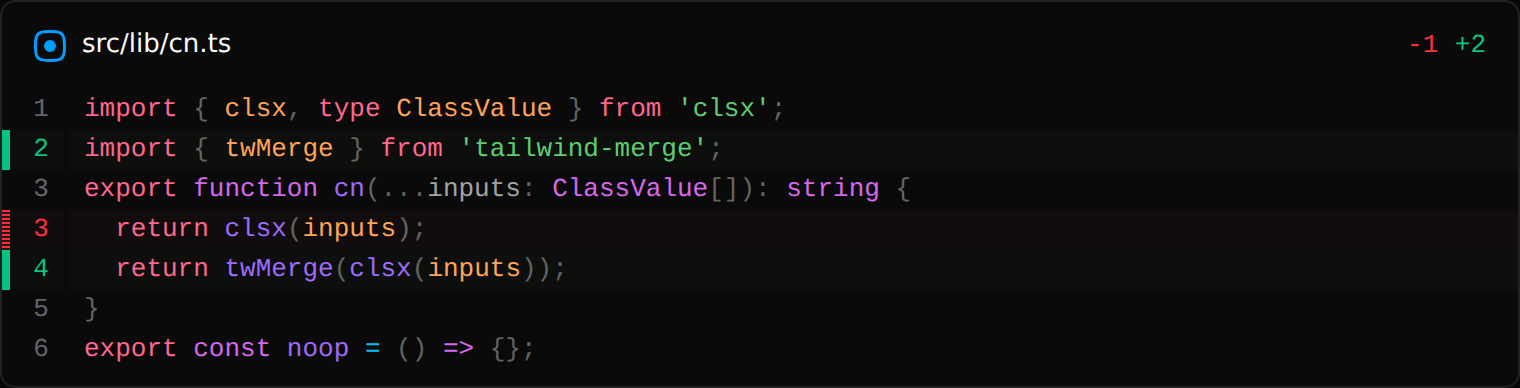
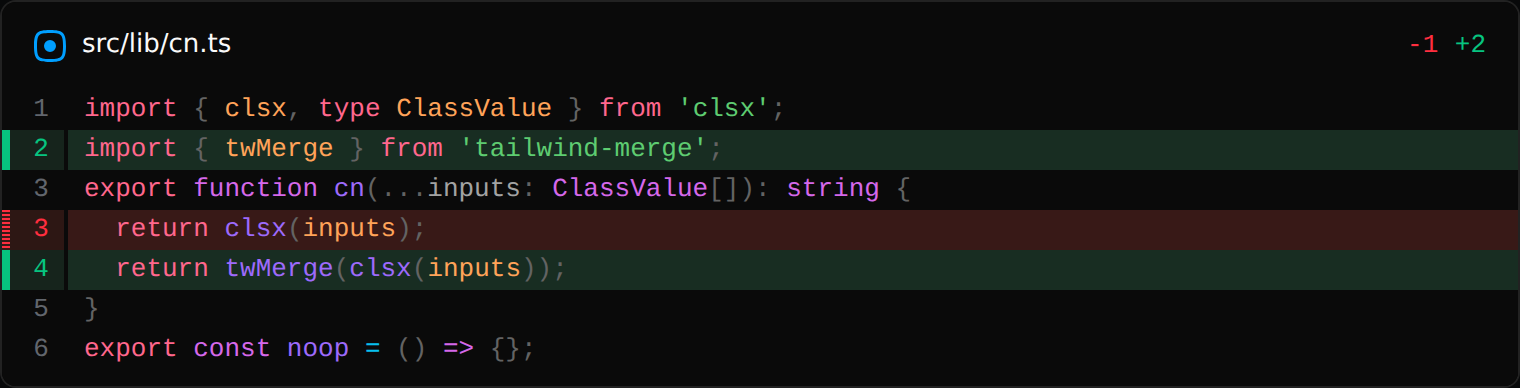
spike(git): keep pierre-dark add/remove line backgrounds (clear green/red)
The token chrome overrode the add/remove line backgrounds with marudesk's faint
--success-subtle / --error-subtle (10-12%), which washed the change colour out —
glaring with lineDiffType: 'none', where the line tint is the only signal. Drop
those overrides (and the now-unused emphasis tints) so pierre-dark renders its
clear saturated green/red lines; keep retinting only the neutral surfaces
(panel/gutter/separator/hover/selection/numbers). Regenerated captures.

Changed region(s): [[0.0, 0.5258, 1.0, 0.7732], [0.0309, 0.3093, 1.0, 0.4639]]

diff --git a/marudesk/src/features/git/DiffViewer.tsx b/marudesk/src/features/git/DiffViewer.tsx
@@ -15,21 +15,17 @@ import { parseUnifiedDiff } from './parseDiff';
 const USE_PIERRE_DIFF = false;
 
 // Map design tokens onto the diffs chrome (the library's first-class
-// `--diffs-*-override` surface). Syntax colors come from the bundled
-// `pierre-dark` theme; these retint the panel/gutter/line/number/selection
-// backgrounds so the diff sits inside marudesk's surfaces. Emphasis (the
-// word-level intra-line highlight) is a stronger token-derived tint via
-// color-mix, keeping every value token-driven (no literal hex).
+// `--diffs-*-override` surface). We retint only the *neutral* surfaces — panel,
+// gutter, separator, hover, selection, line numbers — so the diff sits inside
+// marudesk's surfaces. The add/remove line backgrounds are deliberately left to
+// the bundled `pierre-dark` theme, which renders a clear, saturated green/red;
+// overriding them with marudesk's faint subtle tokens washed the change colour
+// out (especially with `lineDiffType: 'none'`, where the line tint is the only
+// change signal).
 const DIFF_CHROME_STYLE = {
   '--diffs-bg-buffer-override': 'var(--surface-1)',
   '--diffs-bg-context-override': 'var(--surface-1)',
   '--diffs-bg-context-gutter-override': 'var(--surface-1)',
-  '--diffs-bg-addition-override': 'var(--success-subtle)',
-  '--diffs-bg-deletion-override': 'var(--error-subtle)',
-  '--diffs-bg-addition-number-override': 'var(--success-subtle)',
-  '--diffs-bg-deletion-number-override': 'var(--error-subtle)',
-  '--diffs-bg-addition-emphasis-override': 'color-mix(in srgb, var(--success) 22%, transparent)',
-  '--diffs-bg-deletion-emphasis-override': 'color-mix(in srgb, var(--error) 22%, transparent)',
   '--diffs-bg-separator-override': 'var(--surface-2)',
   '--diffs-bg-hover-override': 'var(--surface-2)',
   '--diffs-bg-selection-override': 'var(--accent-subtle)',

diff --git a/marudesk/diff-preview/main.tsx b/marudesk/diff-preview/main.tsx
@@ -31,7 +31,10 @@ document.body.style.cssText =
 const mount = document.getElementById('app')!;
 mount.style.cssText = 'max-width:760px;margin:0 auto;';
 
-// Mirror the DiffViewer spike: shiki-js engine (no WASM) + token chrome.
+const params = new URLSearchParams(location.search);
+
+// Mirror the DiffViewer spike: retint only the neutral surfaces; leave the
+// add/remove line backgrounds to the pierre-dark theme (clear green/red).
 const DIFF_CHROME_STYLE = {
   border: '1px solid var(--border-default)',
   borderRadius: '8px',
@@ -39,19 +42,12 @@ const DIFF_CHROME_STYLE = {
   '--diffs-bg-buffer-override': 'var(--surface-1)',
   '--diffs-bg-context-override': 'var(--surface-1)',
   '--diffs-bg-context-gutter-override': 'var(--surface-1)',
-  '--diffs-bg-addition-override': 'var(--success-subtle)',
-  '--diffs-bg-deletion-override': 'var(--error-subtle)',
-  '--diffs-bg-addition-number-override': 'var(--success-subtle)',
-  '--diffs-bg-deletion-number-override': 'var(--error-subtle)',
-  '--diffs-bg-addition-emphasis-override': 'color-mix(in srgb, var(--success) 22%, transparent)',
-  '--diffs-bg-deletion-emphasis-override': 'color-mix(in srgb, var(--error) 22%, transparent)',
   '--diffs-bg-separator-override': 'var(--surface-2)',
   '--diffs-bg-hover-override': 'var(--surface-2)',
   '--diffs-bg-selection-override': 'var(--accent-subtle)',
   '--diffs-fg-number-override': 'var(--text-tertiary)',
 } as CSSProperties;
 
-const params = new URLSearchParams(location.search);
 const diffStyle = params.get('style') === 'split' ? 'split' : 'unified';
 const ld = params.get('linediff');
 // Default matches the DiffViewer spike: 'none' tints the whole changed line

diff --git a/marudesk/docs/pierre-diffs-spike.md b/marudesk/docs/pierre-diffs-spike.md
@@ -53,9 +53,13 @@ and fixes the design:
   character (noisier on unrelated lines). See the `?linediff=` comparison
   captures (`diff-preview/linediff-none.png` vs `linediff-word-alt.png`).
   **`diffIndicators: 'bars'`** matches the in-house left-bar look.
-- **Fuller token chrome.** `DIFF_CHROME_STYLE` maps line/number/selection
-  backgrounds onto tokens (and a `color-mix` word-emphasis tint for the
-  intra-line modes), so every value stays token-driven — no literal hex.
+- **Token chrome on neutral surfaces only.** `DIFF_CHROME_STYLE` retints the
+  panel/gutter/separator/hover/selection/line-number surfaces onto marudesk
+  tokens, but **leaves the add/remove line backgrounds to `pierre-dark`**, which
+  renders a clear saturated green/red. An earlier pass overrode them with the
+  faint `--success-subtle` / `--error-subtle` tokens, which washed the change
+  colour out — very visible with `lineDiffType: 'none'`, where the line tint is
+  the only change signal.
 
 Not yet wired (clear next steps): per-hunk `diffAcceptRejectHunk` for an
 interactive accept/reject review, `CodeView` for an all-changed-files scroll, the
